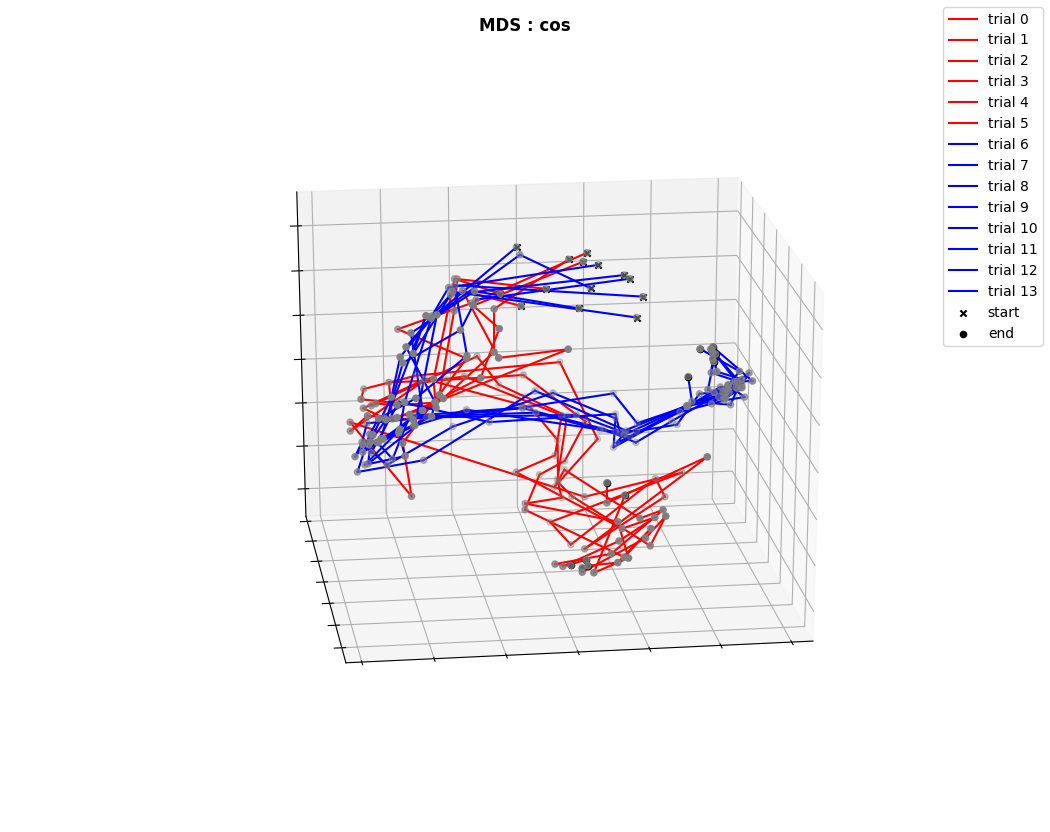
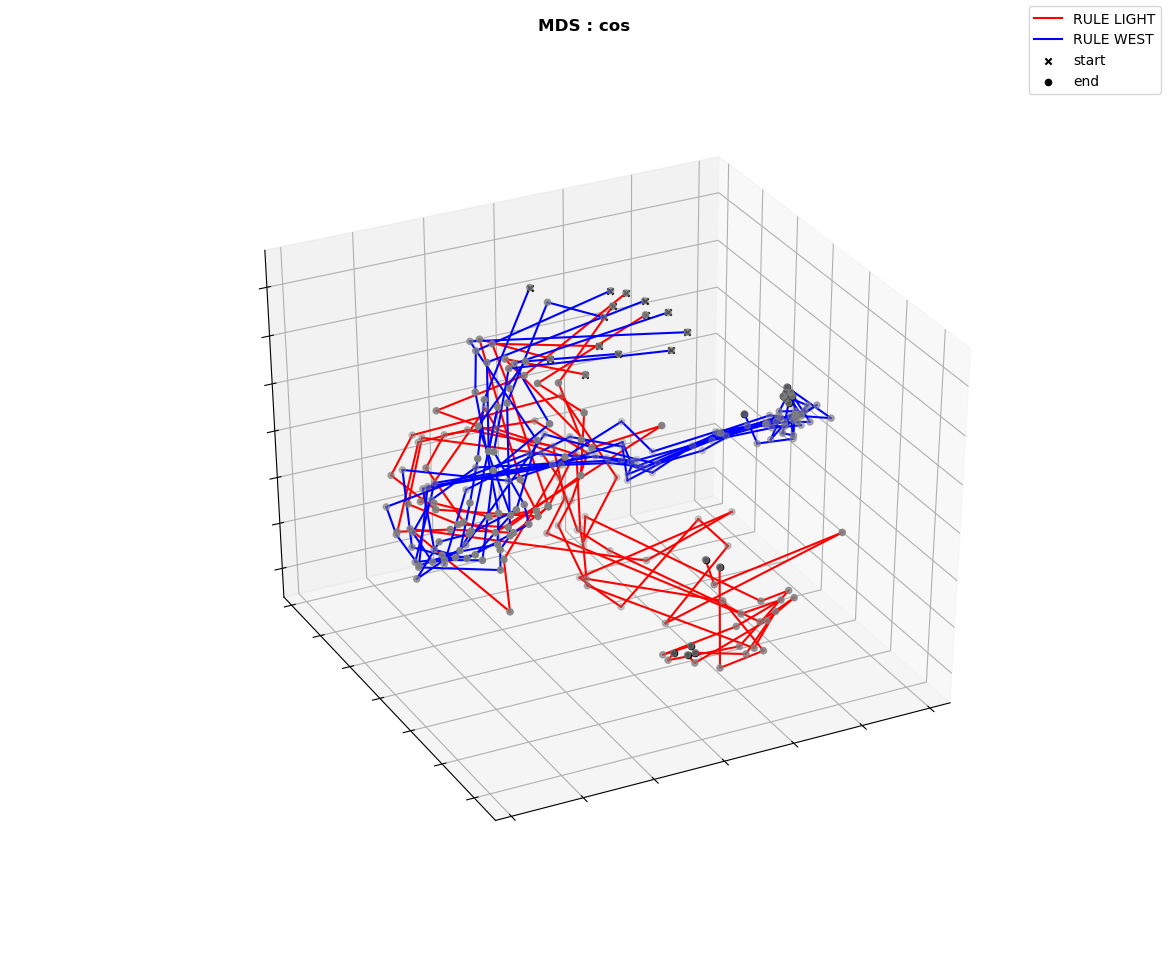
changed file names and updated results

diff --git a/manifold_methods.py b/manifold_methods.py
@@ -1,10 +1,10 @@
 ########################################################################################################################
 #
-#   Analysis methods
+#   Manifold methods
 #
 #   Description:
 #
-#       - analysis steps/methods
+#       - contains classes that are used to perform manifold analysis
 #
 #   Author: Lars Bollmann
 #
@@ -12,19 +12,22 @@
 #
 #   Structure:
 #
-#       - ManifoldTransition: evaluates the manifold change e.g during rule switch
+#       - Manifold: Base class containing basic attributes and methods
 #
-#               - separate_data_time_bins: using time bins, transforming every trial separately
+#       - singleManifold: Methods/attributes to analyze manifold for one condition (e.g. RULE A)
+#
 #               - concatenated_data_time_bins:  using data from multiple trials for transformation (dim. reduction)
 #                                               and separating data afterwards
 #
+#               - state_transition: analysis the state transitions using difference vectors between two population
+#                                   states
+#
+#       - ManifoldTransition: evaluates the manifold change e.g during rule switch
+#
+#               - separate_data_time_bins: using time bins, transforming every trial separately
 #
 #       - ManifoldCompare:  compares results of two different conditions using dimensionality reduction and transforming
 #                           each trial separately
-#       - manifoldCompareConc:  compares results of two different conditions using dimensionality reduction.
-#                               Uses concatenated data for transformation and separates data afterwards
-#
-#       - StateTransitionAnalysis: analysis the state transitions using difference vectors between two population states
 #
 ########################################################################################################################
 
@@ -163,6 +166,37 @@ class SingleManifold(Manifold):
                 trial_counter += 1
         # apply dimensionality reduction to data
         self.reduce_dimension(dat_mat)
+
+    def state_transition_analysis(self):
+        # analysis the state transitions using difference vectors between two population states for a selected trial
+
+        dat_mat = np.array([]).reshape(self.nr_cells,0)
+        # nr of trials to compare
+        trial_counter = 0
+        # concatenate all trials and save separator for trials
+        for i, key in enumerate(self.data_set):
+            if trial_counter > (self.nr_trials_to_compare-1):
+                break
+            else:
+                if self.binning_method == "temporal":
+                    act_mat, loc_vec_part = get_activity_mat_time(self.data_set[key], self.param_dic,self.loc_set[key])
+                elif self.binning_method == "spatial":
+                    act_mat, loc_vec_part = get_activity_mat_spatial(self.data_set[key], self.param_dic,
+                                                                     self.loc_set[key])
+                # calculate differences between population vectors
+                diff_mat = pop_vec_diff(act_mat)
+                # concatenate spike matrices
+                dat_mat = np.hstack((dat_mat, diff_mat))
+                # concatenate location vectors
+                self.loc_vec = np.vstack((self.loc_vec, np.expand_dims(loc_vec_part, 1)))
+                self.data_sep[trial_counter + 1] = int(self.data_sep[trial_counter] + act_mat.shape[1])
+                trial_counter += 1
+        # apply dimensionality reduction to data
+        self.reduce_dimension(dat_mat)
+        self.plot_in_one_fig_color_position()
+
+
+
 
     def plot_in_multi_figs(self):
     # plots results as scatter plot in different figures
@@ -358,12 +392,12 @@ class ManifoldCompare(Manifold):
     # combines two data sets, reduces the dimension and plots sets in different colors in 2D/3D for one data set of each
     # condition
         # get trial ID from both sets
-        trial_ID_set1 = list(data_sets[0].keys())[param_dic["sel_trial"]]
-        trial_ID_set2 = list(data_sets[1].keys())[param_dic["sel_trial"]]
+        trial_ID_set1 = list(self.data_sets[0].keys())[self.param_dic["sel_trial"]]
+        trial_ID_set2 = list(self.data_sets[1].keys())[self.param_dic["sel_trial"]]
 
         # calculate matrix of population vectors
-        act_mat_set1, loc_vec1 = get_activity_mat_time(data_sets[0][trial_ID_set1], param_dic, loc_sets[0][trial_ID_set1])
-        act_mat_set2, loc_vec2 = get_activity_mat_time(data_sets[1][trial_ID_set2], param_dic, loc_sets[1][trial_ID_set2])
+        act_mat_set1, loc_vec1 = get_activity_mat_time(self.data_sets[0][trial_ID_set1], self.param_dic, self.loc_sets[0][trial_ID_set1])
+        act_mat_set2, loc_vec2 = get_activity_mat_time(self.data_sets[1][trial_ID_set2], self.param_dic, self.loc_sets[1][trial_ID_set2])
 
         # combine both matrices
         comb_mat = np.hstack((act_mat_set1, act_mat_set2))
@@ -371,21 +405,21 @@ class ManifoldCompare(Manifold):
 
         # multi dimensional scaling
         # -------------------------------------------------------------------------------------------------------------------
-        mds = multi_dim_scaling(comb_mat, param_dic)
+        mds = multi_dim_scaling(comb_mat, self.param_dic)
 
         data_sep = act_mat_set1.shape[1]
 
         # 2D
-        if param_dic["dr_method_p2"] == 2:
+        if self.param_dic["dr_method_p2"] == 2:
             fig, ax = plt.subplots()
-            plot_2D_scatter(ax, mds, param_dic, data_sep)
+            plot_2D_scatter(ax, mds, self.param_dic, data_sep)
         # 3D
-        elif param_dic["dr_method_p2"] == 3:
+        elif self.param_dic["dr_method_p2"] == 3:
             fig = plt.figure()
             ax = fig.add_subplot(111, projection='3d')
             plot_3D_scatter(ax, mds, param_dic, data_sep)
 
-        fig.suptitle(param_dic["dr_method"] + " : " + param_dic["dr_method_p1"], fontweight='bold')
+        fig.suptitle(self.param_dic["dr_method"] + " : " + self.param_dic["dr_method_p1"], fontweight='bold')
         handles, labels = fig.gca().get_legend_handles_labels()
         by_label = OrderedDict(zip(labels, handles))
         fig.legend(by_label.values(), by_label.keys())
@@ -441,46 +475,3 @@ class ManifoldCompare(Manifold):
             by_label = OrderedDict(zip(labels, handles))
             fig.legend(by_label.values(), by_label.keys())
             plt.show()
-
-
-def state_transition_analysis(data_sets, loc_set, param_dic):
-# analysis the state transitions using difference vectors between two population states for a selected trial
-
-    nr_cells = len(next(iter(data_sets[0].values())))
-    dat_mat = np.array([]).reshape(nr_cells,0)
-    # vector with concatenated location data
-    loc_vec = np.empty((0, 1))
-    data_sep = np.inf
-    for data_set in data_sets:
-        trial_ID = list(data_set.keys())[param_dic["sel_trial"]]
-        act_mat, loc_vec_part = get_activity_mat_time(data_set[trial_ID], param_dic,loc_set[trial_ID])
-        diff_mat = pop_vec_diff(act_mat)
-        if len(data_sets) > 1:
-        # combine datasets
-            dat_mat = np.hstack((dat_mat, diff_mat))
-            data_sep = min(act_mat.shape[1], data_sep)
-
-        else:
-            dat_mat = diff_mat
-            loc_vec = np.expand_dims(loc_vec_part[:-1],1)
-            data_sep = []
-
-    mds = multi_dim_scaling(dat_mat, param_dic)
-    # 2D
-    if param_dic["dr_method_p2"] == 2:
-        fig, ax = plt.subplots()
-        plot_2D_scatter(ax, mds, param_dic, [], loc_vec)
-    # 3D
-    elif param_dic["dr_method_p2"] == 3:
-        fig = plt.figure()
-        ax = fig.add_subplot(111, projection='3d')
-        plot_3D_scatter(ax, mds, param_dic, [], loc_vec)
-    fig.suptitle(param_dic["dr_method"]+" : "+param_dic["dr_method_p1"],fontweight='bold')
-    handles, labels = fig.gca().get_legend_handles_labels()
-    by_label = OrderedDict(zip(labels, handles))
-    fig.legend(by_label.values(), by_label.keys())
-    plt.show()
-
-    # save plot if option is set to true
-    if param_dic["save_plot"]:
-        fig.savefig("plots/" + param_dic["plot_file_name"] + ".png")

diff --git a/main.py b/main.py
@@ -10,17 +10,18 @@
 #
 #   Structure:
 #
-#       - dynamic analysis
-#       - transition analysis
+#       - Manifold analysis
+#           - transition analysis (RULE A --> RULE B)
+#           - comparison analysis (RULE A vs. RULE B)
+#           - state transition analysis (difference vectors between population states)
 #
 ########################################################################################################################
 
 import pickle
 import numpy as np
-from analysis_methods import state_transition_analysis
-from analysis_methods import SingleManifold
-from analysis_methods import ManifoldTransition
-from analysis_methods import ManifoldCompare
+from manifold_methods import SingleManifold
+from manifold_methods import ManifoldTransition
+from manifold_methods import ManifoldCompare
 from comp_functions import calc_loc_and_speed
 
 
@@ -72,17 +73,17 @@ if __name__ == '__main__':
     # "MDS" multi dimensional scaling
     # "PCA" principal component analysis
     # "TSNE"
-    param_dic["dr_method"] = "MDS"
+    param_dic["dr_method"] = "TSNE"
 
     # first parameter of method:
     # MDS --> p1: difference measure ["jaccard","cos"]
     # PCA --> p1 does not exist --> ""
-    param_dic["dr_method_p1"] = "cos"
+    param_dic["dr_method_p1"] = ""
 
     # second parameter of method:
     # MDS --> p2: number of components
     # PCA --> p2: number of components
-    param_dic["dr_method_p2"] = 2
+    param_dic["dr_method_p2"] = 3
 
 
     # number of trials to compare
@@ -105,7 +106,7 @@ if __name__ == '__main__':
     param_dic["spat_seg_plotting"] = 20
 
     # saving figure file name
-    param_dic["plot_file_name"] = "man_transition_mds_cos_3D_rulesep"+"_"+param_dic["dr_method"]+"_"+ param_dic["dr_method_p1"]+"_"\
+    param_dic["plot_file_name"] = "man_compare"+"_"+param_dic["dr_method"]+"_"+ param_dic["dr_method_p1"]+"_"\
                                   +str(param_dic["dr_method_p2"])+"D"
 
     # TODO: automatically use maximum value from all data for axis limits
@@ -196,5 +197,6 @@ if __name__ == '__main__':
 
     # using difference vectors
     # ------------------------------------------------------------------------------------------------------------------
-    #state_transition_analysis([res_rule_23], whl_lin_rule_23, param_dic)
+    state_transition_analysis = SingleManifold(res_rule_23, whl_lin_rule_23, param_dic)
+    state_transition_analysis.state_transition_analysis()
 

diff --git a/plotting_functions.py b/plotting_functions.py
@@ -201,9 +201,14 @@ def plot_compare(data, param_dic, data_sep, rule_sep = []):
             data_subset = data[int(data_sep[data_ID]):int(data_sep[data_ID + 1]), :]
 
             for i in range(0, data_subset.shape[0] - 1):
-                ax.plot(data_subset[i:i + 2, 0], data_subset[i:i + 2, 1], data_subset[i:i + 2, 2],
-                        color=col_map[data_ID, :],
-                        label="trial " + str(data_ID))
+                if rule_sep:
+                    ax.plot(data_subset[i:i + 2, 0], data_subset[i:i + 2, 1], data_subset[i:i + 2, 2],
+                            color=col_map[data_ID, :],
+                            label=label_arr[data_ID])
+                else:
+                    ax.plot(data_subset[i:i + 2, 0], data_subset[i:i + 2, 1], data_subset[i:i + 2, 2],
+                            color=col_map[data_ID, :],
+                            label="TRIAL " + str(data_ID))
             ax.scatter(data_subset[:, 0], data_subset[:, 1], data_subset[:, 2], color="grey")
             ax.scatter(data_subset[0, 0], data_subset[0, 1], data_subset[0, 2], color="black", marker="x", label="start",
                        zorder=200)
